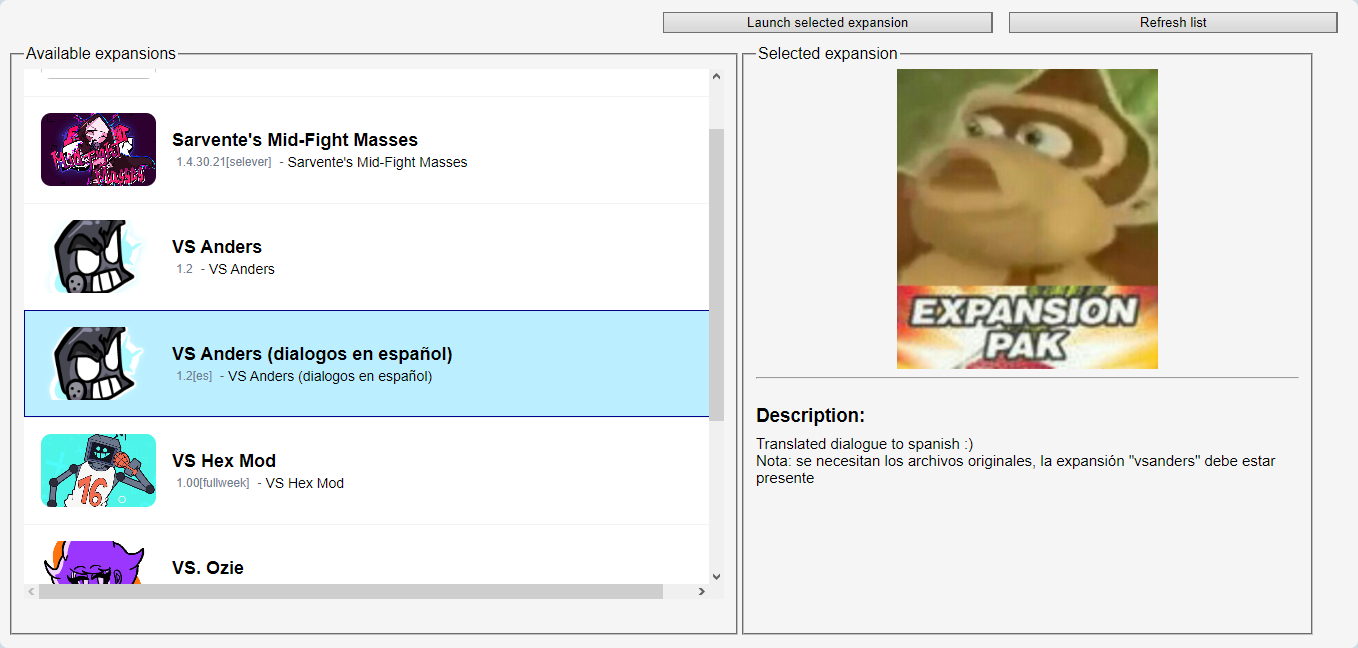
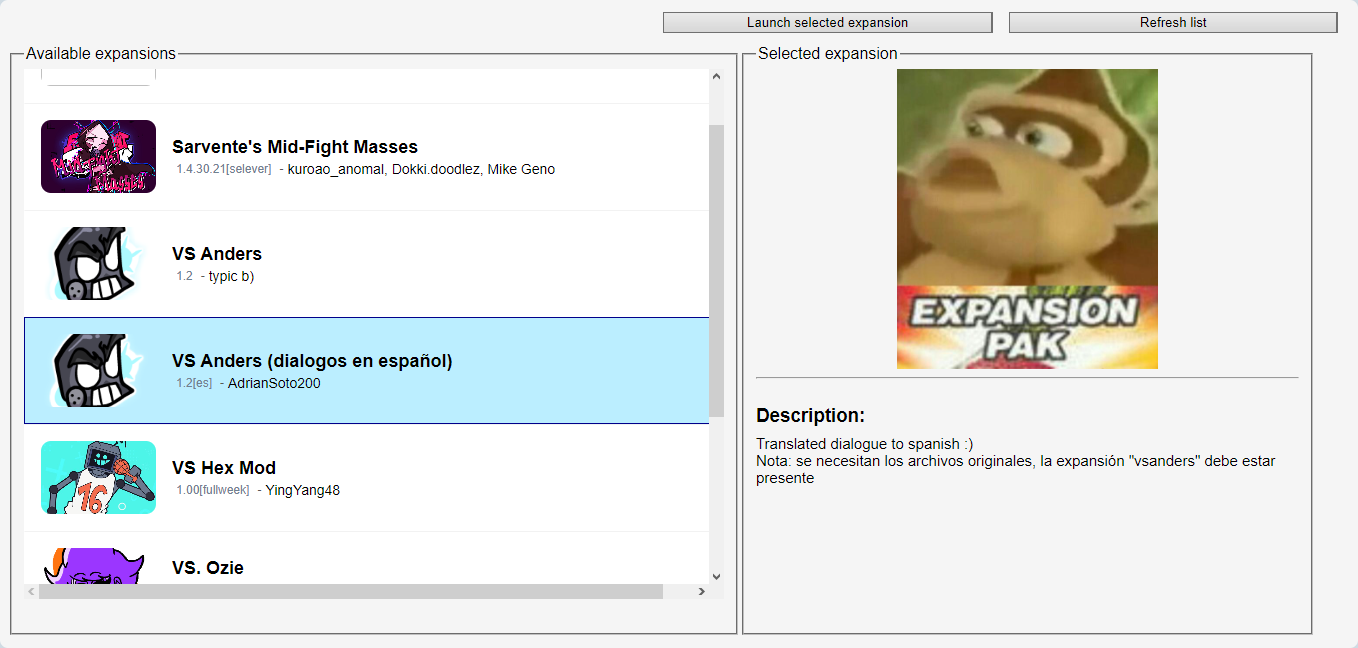
v0.60 is here * bugfixes :     * remove screenshot path warning.     * use "ref struct" instead of "class" SongPlayerInfo.     * rename ImageWritterWrite:ImageAndFree method to ImageWritterWrite::PNGImageAndFree because screenshots are saved in PNG format.     * fix seeking paused short streams whic

Changed region(s): [[0.0, 0.3395, 0.5258, 0.8025], [0.0309, 0.1543, 0.4021, 0.3086], [0.0309, 0.8333, 0.1237, 0.9259]]

diff --git a/src-javascript/engine/game/expansionsloader.js b/src-javascript/engine/game/expansionsloader.js
@@ -47,7 +47,7 @@ async function expansionsloader_internal_load_expansions() {
     if (!entries) return expansions;
 
     for (let dir of entries) {
-        let dir_path = `${expansions_path}${dir.name}${FS_CHAR_SEPARATOR}`
+        let dir_path = `${expansions_path}${FS_CHAR_SEPARATOR}${dir.name}${FS_CHAR_SEPARATOR}`
         let dir_relative_path = `${EXPANSIONS_PATH}${FS_CHAR_SEPARATOR}${dir.name}${FS_CHAR_SEPARATOR}`;
 
         if (dir.name.toLowerCase() == "funkin") continue;
@@ -212,7 +212,7 @@ async function expansionsloader_internal_refresh(e) {
             expansionsloader_internal_build_anchors(expansion.version)
         );
         expansion.li_element.querySelector(".exl-info-submiter").appendChild(
-            expansionsloader_internal_build_anchors(expansion.name)
+            expansionsloader_internal_build_anchors(expansion.submiter)
         );
 
         exl_list.appendChild(expansion.li_element);

diff --git a/src-javascript/kdmy_engine_layout_visor.html b/src-javascript/kdmy_engine_layout_visor.html
@@ -544,7 +544,7 @@
                     <div style="display: inline;">
                         <label><input type="radio" name="viewmode" id="viewmode-offset" checked />Offset</label>
                         <br>
-                        <label><input type="radio" name="viewmode" id="viewmode-camera" />Positon (with
+                        <label><input type="radio" name="viewmode" id="viewmode-camera" />Position (with
                             parallax)</label>
                     </div>
                     <div style="display: inline;margin-left: 10px;">

diff --git a/src-javascript/engine/game/main.js b/src-javascript/engine/game/main.js
@@ -2,7 +2,7 @@
 
 // this file contains all shared data across the game
 const ENGINE_NAME = "kdmy-engine";
-const ENGINE_VERSION = "0.58";
+const ENGINE_VERSION = "0.60";
 
 
 /**

diff --git a/src-desktop/soundbridge/sndbridge.cs b/src-desktop/soundbridge/sndbridge.cs
@@ -89,7 +89,7 @@ public class Stream : IDisposable {
                     }
                     break;
                 default:
-                    SoundBridge.PrintPaError($"sndbridge_position() failed on stream {this.id}: ", (PaError)err);
+                    SoundBridge.PrintPaError($"sndbridge_position() failed on stream {this.id}: ", err);
                     return -1.0;
             }
 
@@ -106,7 +106,7 @@ public class Stream : IDisposable {
 
         int status = PortAudio.Pa_IsStreamActive(this.pastream);
         if (status != 1 && status != 0) {
-            SoundBridge.PrintPaError($"sndbridge_seek() status failed on stream {this.id}: ", (PaError)status);
+            SoundBridge.PrintPaError($"sndbridge_seek() status failed on stream {this.id}: ", status);
             return;
         }
 
@@ -117,6 +117,7 @@ public class Stream : IDisposable {
             }
         }
 
+        bool has_halt = this.halt;
         if (this.keep_alive) SoundBridge.wait_and_halt(this, status == 1);
 
         this.buffer_used = 0;
@@ -137,7 +138,7 @@ public class Stream : IDisposable {
 
         if (status == 1) {
             if (this.keep_alive) {
-                this.halt = false;
+                if (!has_halt) this.halt = false;
                 return;
             }
 
@@ -161,7 +162,7 @@ public class Stream : IDisposable {
             case 0:
                 break;
             default:
-                SoundBridge.PrintPaError($"sndbridge_play() status failed on stream {this.id}: ", (PaError)err);
+                SoundBridge.PrintPaError($"sndbridge_play() status failed on stream {this.id}: ", err);
                 return;
         }
 
@@ -193,7 +194,7 @@ public class Stream : IDisposable {
                 if (this.halt) return;
                 break;
             default:
-                SoundBridge.PrintPaError($"sndbridge_pause() status failed on stream {this.id}: ", (PaError)err);
+                SoundBridge.PrintPaError($"sndbridge_pause() status failed on stream {this.id}: ", err);
                 return;
         }
 
@@ -227,7 +228,7 @@ public class Stream : IDisposable {
                 if (this.keep_alive) goto L_reset_stream;
                 break;
             default:
-                SoundBridge.PrintPaError("sndbridge_stop() status failed on stream {this.id}: ", (PaError)err);
+                SoundBridge.PrintPaError("sndbridge_stop() status failed on stream {this.id}: ", err);
                 return;
         }
 
@@ -332,7 +333,7 @@ public static class SoundBridge {
     private const float PI_HALF = MathF.PI / 2f;
     private const string DESIRED_API_NAME = "DSound";
     private const PaHostApiTypeId DESIRED_API_ENUM = PaHostApiTypeId.paDirectSound;
-    private const float MIN_DURATION_KEEP_ALIVE = 99990.500f; // 500 milliseconds
+    private const float MIN_DURATION_KEEP_ALIVE = 0.500f; // 500 milliseconds
     private const int WAIT_AND_HALT_TIMEOUT = 1000; // 1000 milliseconds
 
 
@@ -358,6 +359,10 @@ public static class SoundBridge {
             elapsed += 10;
         }
         stream.halt = halt;
+    }
+
+    internal static void PrintPaError(string str, int err) {
+        PrintPaError(str, (PaError)err);
     }
 
     internal static void PrintPaError(string str, PaError err) {

diff --git a/src-desktop/kdy-e/engine/platform/pvrctx.cs b/src-desktop/kdy-e/engine/platform/pvrctx.cs
@@ -1,5 +1,6 @@
 using System;
 using System.Diagnostics;
+using System.IO;
 using CsharpWrapper;
 using Engine.Externals;
 using Engine.Externals.GLFW;
@@ -798,12 +799,12 @@ public class PVRContext {
         nint ptr = PVRContext.global_context.webopengl.ReadFrameBuffer(out width, out height);
         if (ptr == 0x00) return;
 
-        string filename = "../screenshots/" + DateTime.Now.ToString("yyyy-MM-ddTHHmmss.fff") + ".png";
-        filename = IO.GetAbsolutePath(filename, true, false, false);
+        string filename = DateTime.Now.ToString("yyyy-MM-ddTHHmmss.fff") + ".png";
+        filename = $"{EngineSettings.EngineDir}screenshots{Path.DirectorySeparatorChar}{filename}";
 
         // async file writting to avoid suttering
         Engine.Game.GameMain.SpawnCoroutine(null, delegate (object param) {
-            ImageWritter.WriteImageAndFree(ptr, width, height, true, filename);
+            ImageWritter.WritePNGImageAndFree(ptr, width, height, true, filename);
             return null;
         }, null);
     }

diff --git a/src-desktop/kdy-e/engine/game/gameplay/week.cs b/src-desktop/kdy-e/engine/game/gameplay/week.cs
@@ -2451,7 +2451,7 @@ public class Week {
 
         // start this round!!!!!
         dettached_controller_index = -1;
-        double elapsed_play = roundcontext.songplayer != null ? roundcontext.songplayer.Play(songinfo) : 0.0;
+        double elapsed_play = roundcontext.songplayer != null ? roundcontext.songplayer.Play(ref songinfo) : 0.0;
 
         // prepare beatwatchers
         BeatWatcher.GlobalSetTimestamp(elapsed_play);
@@ -2529,7 +2529,7 @@ public class Week {
 
                 if (roundcontext.songplayer != null) {
                     roundcontext.songplayer.Seek(song_timestamp);
-                    roundcontext.songplayer.Play(songinfo);
+                    roundcontext.songplayer.Play(ref songinfo);
                 }
 
                 for (int i = 0 ; i < roundcontext.players_size ; i++) {

diff --git a/src-desktop/kdy-e/engine/sound/songplayer.cs b/src-desktop/kdy-e/engine/sound/songplayer.cs
@@ -6,7 +6,7 @@ using KallistiOS.THD;
 
 namespace Engine.Sound;
 
-public class SongPlayerInfo {
+public ref struct SongPlayerInfo {
     public double timestamp;
     public bool completed;
 }
@@ -111,7 +111,7 @@ public class SongPlayer {
         //free(songplayer);
     }
 
-    public double Play(SongPlayerInfo songinfo) {
+    public double Play(ref SongPlayerInfo songinfo) {
         if (this.playbacks_size < 1 || !this.paused) return 0.0;
 
         double lowest_timestamp = double.PositiveInfinity;

diff --git a/src-desktop/kdy-e/Properties/AssemblyInfo.cs b/src-desktop/kdy-e/Properties/AssemblyInfo.cs
@@ -32,6 +32,6 @@ using System.Runtime.InteropServices;
 // Puede especificar todos los valores o usar los valores predeterminados de número de compilación y de revisión
 // utilizando el carácter "*", como se muestra a continuación:
 // [assembly: AssemblyVersion("1.0.*")]
-[assembly: AssemblyVersion("0.57.0.0")]
-[assembly: AssemblyFileVersion("0.57.0.0")]
+[assembly: AssemblyVersion("0.60.0.0")]
+[assembly: AssemblyFileVersion("0.60.0.0")]
 [assembly: NeutralResourcesLanguage("es-419")]

diff --git a/src-desktop/soundbridge/Properties/AssemblyInfo.cs b/src-desktop/soundbridge/Properties/AssemblyInfo.cs
@@ -31,5 +31,5 @@ using System.Runtime.InteropServices;
 // Puede especificar todos los valores o usar los valores predeterminados de número de compilación y de revisión
 // utilizando el carácter "*", como se muestra a continuación:
 // [assembly: AssemblyVersion("1.0.*")]
-[assembly: AssemblyVersion("1.6.0.0")]
-[assembly: AssemblyFileVersion("1.6.0.0")]
+[assembly: AssemblyVersion("1.6.1.0")]
+[assembly: AssemblyFileVersion("1.6.1.0")]

diff --git a/src-desktop/texture-mgr/Properties/AssemblyInfo.cs b/src-desktop/texture-mgr/Properties/AssemblyInfo.cs
@@ -31,5 +31,5 @@ using System.Runtime.InteropServices;
 // Puede especificar todos los valores o usar los valores predeterminados de número de compilación y de revisión
 // utilizando el carácter "*", como se muestra a continuación:
 // [assembly: AssemblyVersion("1.0.*")]
-[assembly: AssemblyVersion("1.5.0.0")]
-[assembly: AssemblyFileVersion("1.5.0.0")]
+[assembly: AssemblyVersion("1.5.1.0")]
+[assembly: AssemblyFileVersion("1.5.1.0")]

diff --git a/src-desktop/texture-mgr/imagewritter.cs b/src-desktop/texture-mgr/imagewritter.cs
@@ -10,7 +10,7 @@ namespace Engine.Platform;
 
 public class ImageWritter {
 
-    public static void WriteImageAndFree(nint rgba_pixels, int width, int height, bool flip_y, string filename) {
+    public static void WritePNGImageAndFree(nint rgba_pixels, int width, int height, bool flip_y, string filename) {
         int stride = width * sizeof(uint);
         int length = width * height;
         string dir = Path.GetDirectoryName(filename);

diff --git a/src-desktop/kdy-e/engine/game/main.cs b/src-desktop/kdy-e/engine/game/main.cs
@@ -20,7 +20,7 @@ public static class GameMain {
 
     // this file contains all shared data across the game
     public const string ENGINE_NAME = "kdmy-engine";
-    public const string ENGINE_VERSION = "0.58";
+    public const string ENGINE_VERSION = "0.60";
 
     /**
      * The background music used in all menus, inherited from introscreen
